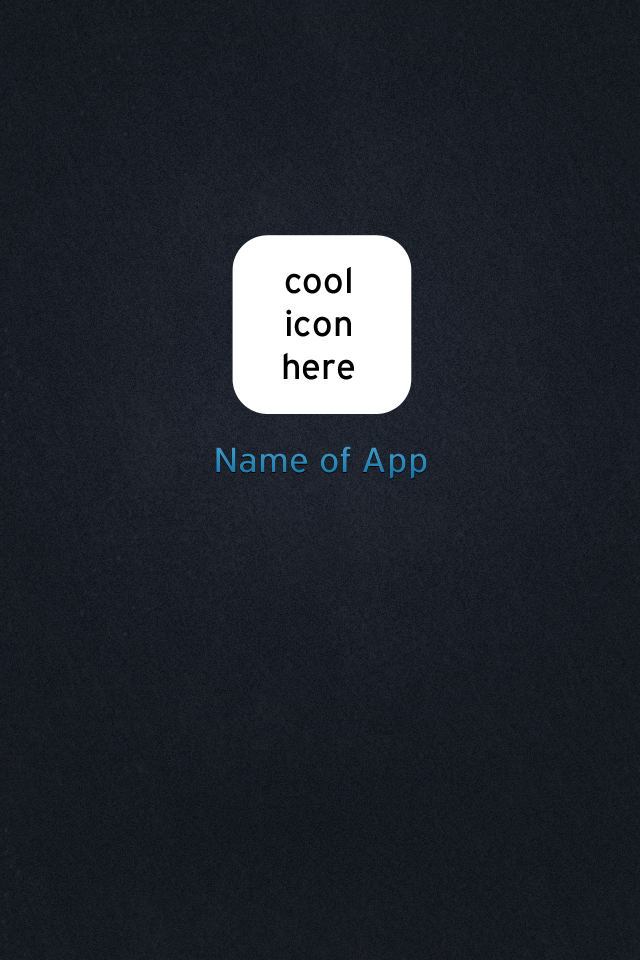
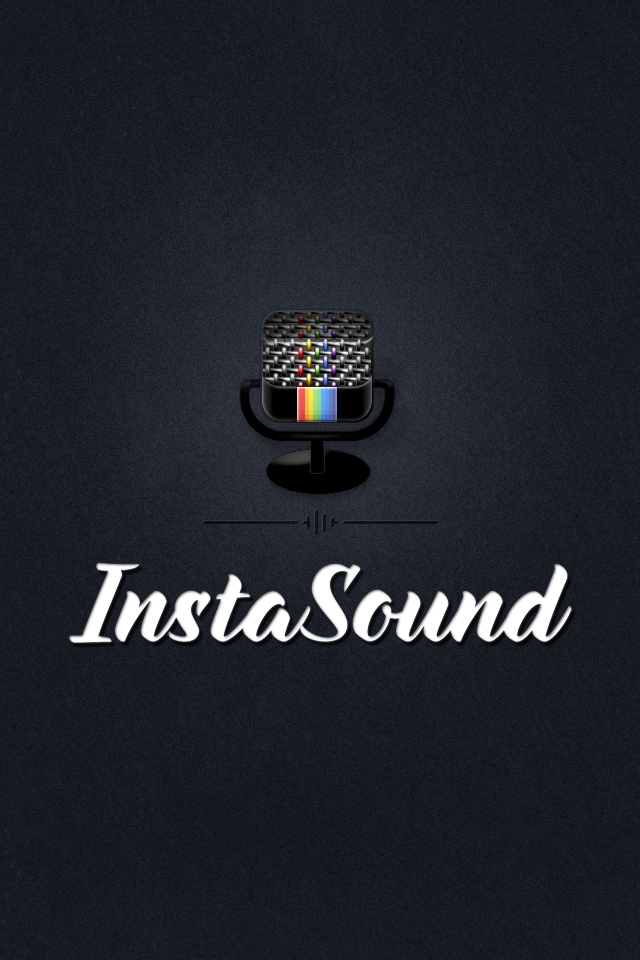
Change name and default image

Changed region(s): [[0.3125, 0.2188, 0.6875, 0.5312], [0.0938, 0.5625, 0.9062, 0.6875]]

diff --git a/instasound/AppDelegate.m b/instasound/AppDelegate.m
@@ -1,6 +1,7 @@
 #import "AudioEngine.h"
 #import "AppDelegate.h"
 #import "ViewController.h"
+#import "SCUI.h"
 
 @implementation AppDelegate
 
@@ -12,6 +13,13 @@
 @synthesize recordButton = _recordButton;
 
 int points = 1024;
+
++ (void)initialize;
+{
+    [SCSoundCloud  setClientID:@"02e56b33c5b3ba11cf4a4b387b0fc983"
+                        secret:@"f39445195a1bb5cffd1202da54bf6ad9"
+                   redirectURL:[NSURL URLWithString:@"instasound://oauth2"]];
+}
 
 - (BOOL)application:(UIApplication *)application didFinishLaunchingWithOptions:(NSDictionary *)launchOptions
 {
@@ -57,7 +65,7 @@ int points = 1024;
     self.navigationBar = [[UINavigationBar alloc] initWithFrame:CGRectMake(0, 20, 1, 1)];
     [self.navigationBar setBarStyle:UIBarStyleBlackOpaque];
     
-    UINavigationItem *title = [[UINavigationItem alloc] initWithTitle:@"InstaGramophone"];
+    UINavigationItem *title = [[UINavigationItem alloc] initWithTitle:@"InstaSound"];
     [self.navigationBar pushNavigationItem:title animated:true];
 
     [self.navigationBar sizeToFit];
